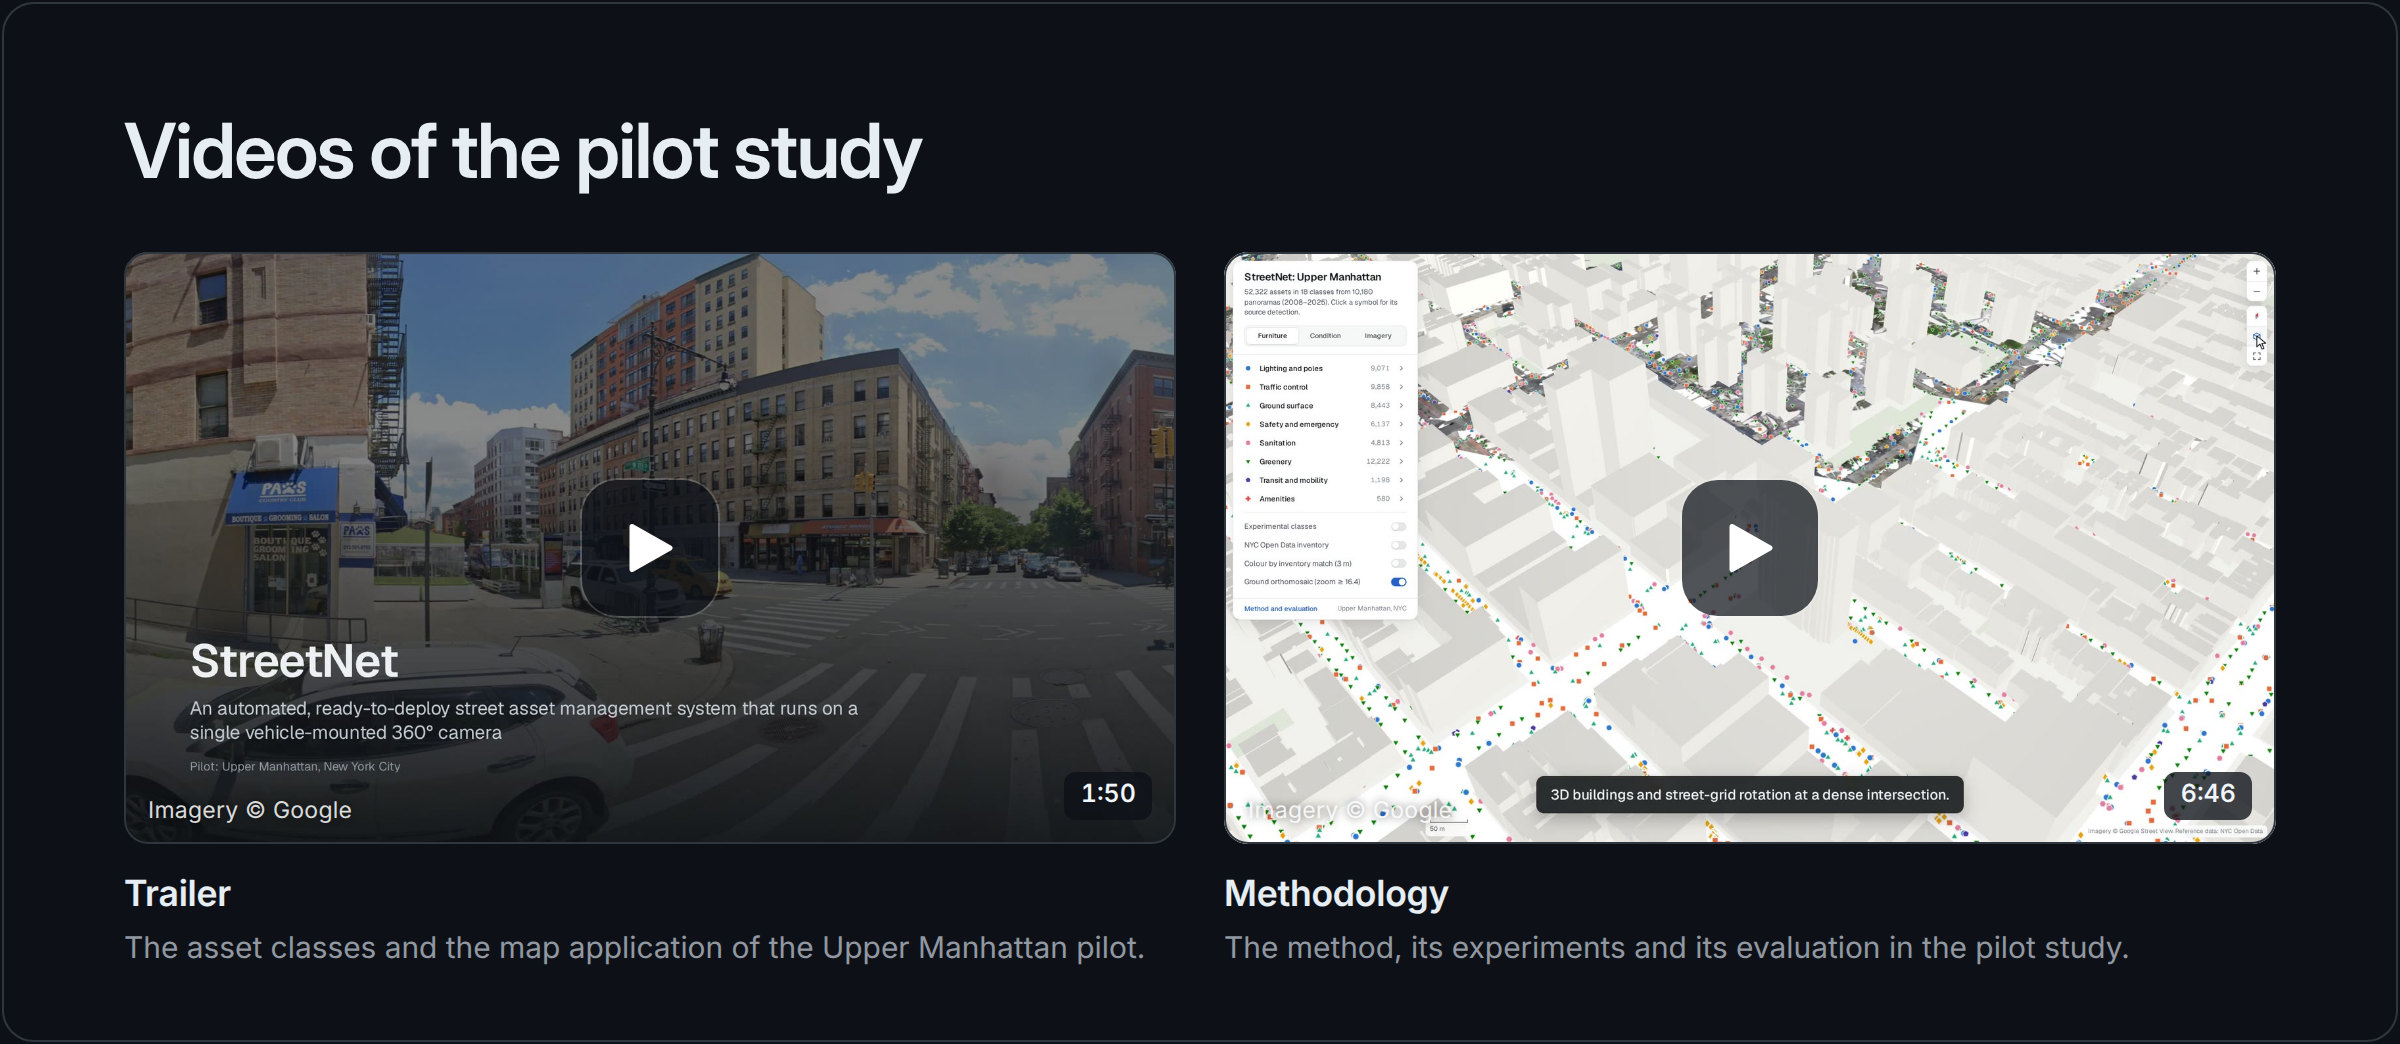
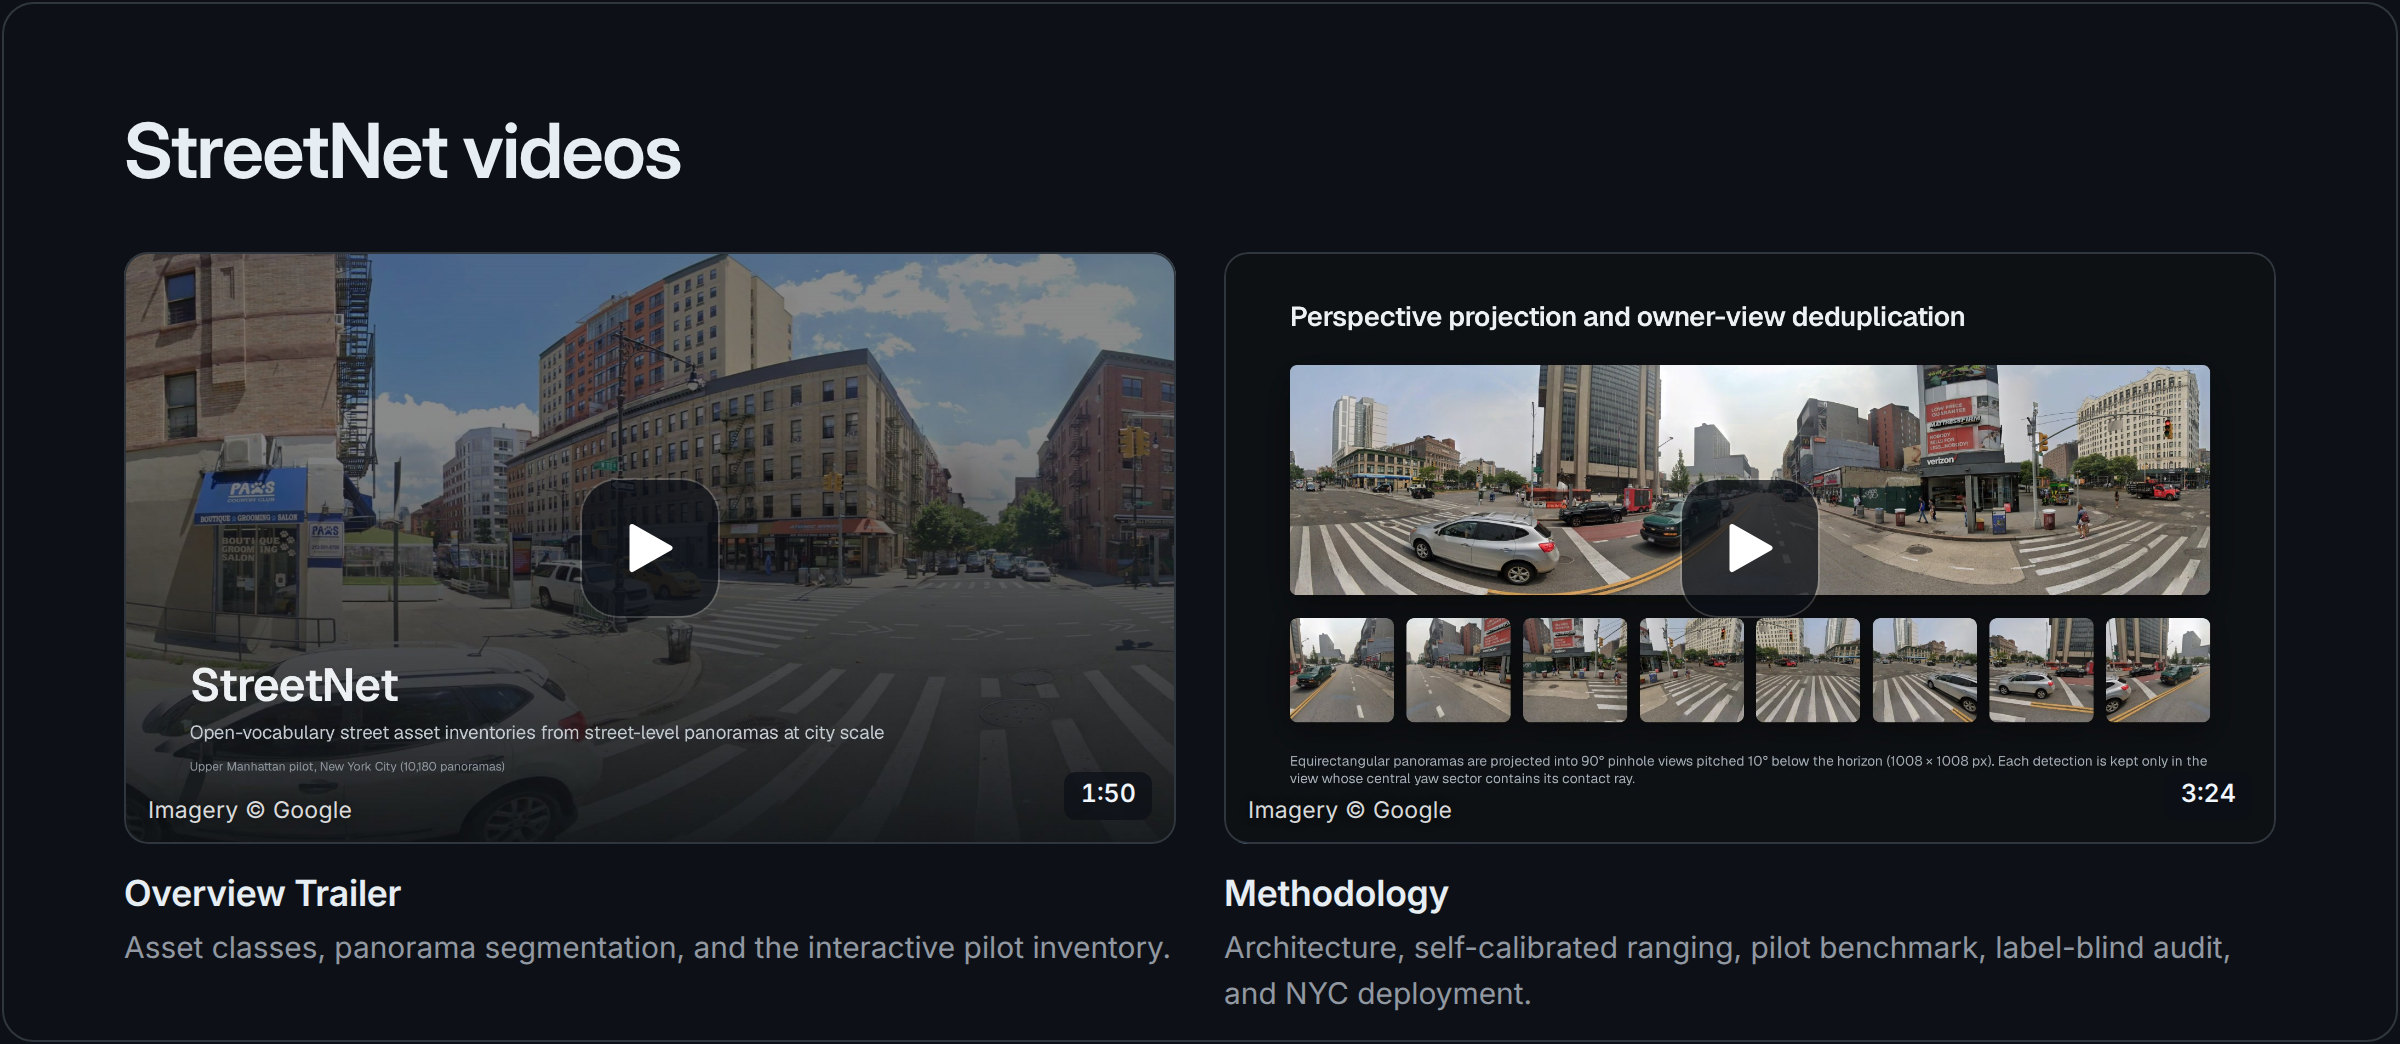
Sync updated trailer and methodology video posters and durations

diff --git a/docs/index.html b/docs/index.html
@@ -61,23 +61,23 @@
     <div class="wrap">
       <div class="sec-h">
         <h2>Videos</h2>
-        <p>Overview and methodology recordings from the Upper Manhattan pilot study that informed the released pipeline.</p>
+        <p>Overview trailer and methodology presentation covering the Upper Manhattan pilot evaluation and five-borough deployment.</p>
       </div>
       <div class="sec-body videos">
         <figure class="video">
           <div class="photo"><video controls preload="none" playsinline poster="assets/video/trailer.jpg" aria-label="StreetNet trailer">
             <source src="https://huggingface.co/datasets/mehmetkeremturkcan/streetnet-media/resolve/main/streetnet_trailer.mp4" type="video/mp4"></video></div>
           <h3>Overview Trailer <span>1:50</span></h3>
-          <p>Walkthrough of the mapped asset classes and interactive pilot inventory, linking mapped assets back to their source panoramas.</p>
+          <p>Walkthrough of mapped asset classes, per-panorama segmentation, and the interactive pilot inventory linking mapped assets back to their source panoramas.</p>
         </figure>
         <figure class="video">
           <div class="photo"><video controls preload="none" playsinline poster="assets/video/methodology.jpg" aria-label="StreetNet methodology video">
             <source src="https://huggingface.co/datasets/mehmetkeremturkcan/streetnet-media/resolve/main/streetnet_methodology.mp4" type="video/mp4"></video></div>
-          <h3>Methodology <span>6:46</span></h3>
-          <p>Detailed breakdown of camera geometry, open-vocabulary and panoptic segmentation, monocular range benchmarks, multi-view fusion, hyperparameter search, and error analysis.</p>
+          <h3>Methodology <span>3:24</span></h3>
+          <p>Structured walkthrough of perspective projection, SAM 3.1 and Mask2Former segmentation, zero-GT self-calibrated MoGe-3 ranging, multi-view fusion, SigLIP 2 verification, pilot benchmarks, label-blind visual auditing, and city-scale deployment.</p>
         </figure>
       </div>
-      <p class="note">These recordings depict the Upper Manhattan pilot configuration (eight views, 34 prompts per panorama, and 18 mapped classes); the pilot web interface and road-condition layers are not part of this release. The released pipeline runs four views and 25 prompts across 22 asset classes. Imagery © Google.</p>
+      <p class="note">Videos cover the Upper Manhattan pilot evaluation (10,180 panoramas) and five-borough New York City deployment across 22 street asset classes. Imagery © Google; reference data: NYC Open Data.</p>
     </div>
   </section>
 
@@ -90,7 +90,7 @@
       <div class="sec-body">
         <figure class="fig">
           <a href="assets/figures/overview.jpg" class="zoom" aria-label="Open figure at full size"><picture><source srcset="assets/figures/overview-dark.jpg" media="(prefers-color-scheme: dark)" data-dark>
-            <img src="assets/figures/overview.jpg" width="2400" height="1660" loading="lazy" alt="Equirectangular panorama with four perspective cutouts, segmented assets, MoGe-2 metric range with ground-contact points, and top-down multi-view fusion"></picture></a>
+            <img src="assets/figures/overview.jpg" width="2400" height="1660" loading="lazy" alt="Equirectangular panorama with four perspective cutouts, segmented assets, self-calibrated MoGe-3 metric range with ground-contact points, and top-down multi-view fusion"></picture></a>
         </figure>
         <div class="facts">
           <div class="fact"><h3>Perspective views</h3><p>Four evenly spaced pinhole views per panorama, each with a 90° field of view, −10° pitch, and 1008 × 1008 resolution.</p></div>

diff --git a/tools/figures/slides/videos.html b/tools/figures/slides/videos.html
@@ -21,19 +21,19 @@
 </head>
 <body data-size="1200x522" data-format="jpg" data-quality="86" data-themes="dark">
 <div class="slide">
-  <h1>Videos of the pilot study</h1>
+  <h1>StreetNet videos</h1>
   <div class="two">
     <div>
       <div class="card poster"><img src="../../../docs/assets/video/trailer.jpg" alt="">
         <div class="play"><svg width="26" height="28" viewBox="0 0 26 28"><path d="M4 3.2 L23 14 L4 24.8 Z" fill="#ffffff" stroke="#ffffff" stroke-width="2.5" stroke-linejoin="round"/></svg></div>
         <span class="dur">1:50</span><span class="credit" style="left:12px; right:auto; bottom:10px">Imagery © Google</span></div>
-      <div class="meta"><p class="h3">Trailer</p><p class="body">The asset classes and the map application of the Upper Manhattan pilot.</p></div>
+      <div class="meta"><p class="h3">Overview Trailer</p><p class="body">Asset classes, panorama segmentation, and the interactive pilot inventory.</p></div>
     </div>
     <div>
       <div class="card poster"><img src="../../../docs/assets/video/methodology.jpg" alt="">
         <div class="play"><svg width="26" height="28" viewBox="0 0 26 28"><path d="M4 3.2 L23 14 L4 24.8 Z" fill="#ffffff" stroke="#ffffff" stroke-width="2.5" stroke-linejoin="round"/></svg></div>
-        <span class="dur">6:46</span><span class="credit" style="left:12px; right:auto; bottom:10px">Imagery © Google</span></div>
-      <div class="meta"><p class="h3">Methodology</p><p class="body">The method, its experiments and its evaluation in the pilot study.</p></div>
+        <span class="dur">3:24</span><span class="credit" style="left:12px; right:auto; bottom:10px">Imagery © Google</span></div>
+      <div class="meta"><p class="h3">Methodology</p><p class="body">Architecture, self-calibrated ranging, pilot benchmark, label-blind audit, and NYC deployment.</p></div>
     </div>
   </div>
 </div>
